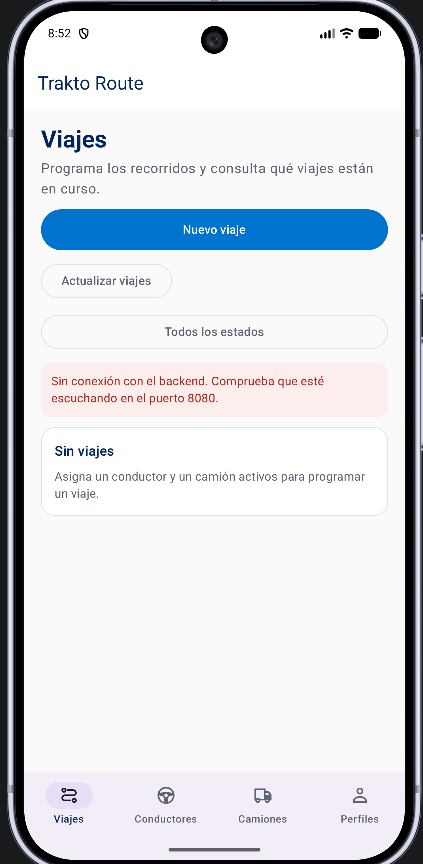
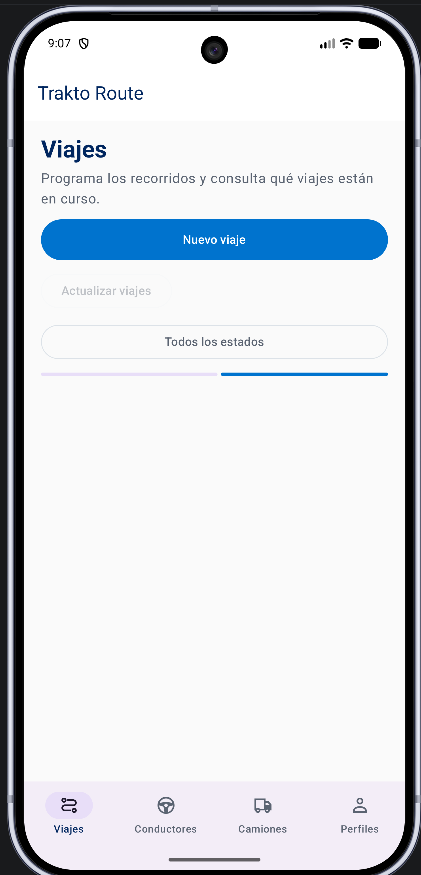
doc: fix Software Deployment Evidence for Sprint Review

diff --git a/README.md b/README.md
@@ -637,7 +637,7 @@ Rodrigo Guerra es un emprendedor que depende de servicios de transporte de merca
 
 | Campo | Detalle |
 |---|---|
-| Nombres y apellidos | Por completar |
+| Nombres y apellidos | Jael Pinta |
 | Segmento objetivo | Organizaciones que coordinan o contratan servicios logísticos |
 | Cargo / actividad | Personal de empresa de mobiliario |
 | Duración | 3:35 |
@@ -901,7 +901,7 @@ Carlos Mendoza supervisará la operación desde la app móvil. El backend aplica
 | Atender incidencias | Consulta el reporte, accede al contacto y solicita replanificación si corresponde. | ¿Qué acción permite continuar de forma adecuada? | Atención enfocada en la situación registrada. |
 | Revisar resultado | Consulta finalización del viaje, entregas e historial. | ¿Qué ocurrió y qué quedó pendiente? | Mejor comprensión del cierre y sus excepciones. |
 
-![To-Be — Carlos Mendoza, pendiente actualizar](assets/images/chapter3/to-be-scenario-map1.png)
+![To-Be — Carlos Mendoza](assets/images/chapter3/to-be-scenario-map1.png)
 
 <div style="page-break-after: always;"></div>
 
@@ -917,7 +917,7 @@ Andrea Salazar coordinará operaciones y relacionará información del envío, p
 | Resolver excepciones | Revisa incidencias, interrupciones y entregas parciales o fallidas. | ¿Qué ocurrió y quién debe actuar? | Menor incertidumbre gracias a los registros. |
 | Cerrar y evaluar | Revisa confirmación de entrega, cobros, historial e indicadores. | ¿Qué operación terminó y qué registros respaldan el resultado? | Comprensión del servicio y de sus pendientes. |
 
-![To-Be — Andrea Salazar, pendiente actualizar](assets/images/chapter3/to-be-scenario-map2.png)
+![To-Be — Andrea Salazar](assets/images/chapter3/to-be-scenario-map2.png)
 
 <div style="page-break-after: always;"></div>
 
@@ -1072,7 +1072,7 @@ El Impact Map relaciona el objetivo de negocio con cambios esperados en las tare
 
 <div style="page-break-after: always;"></div>
 
-![Impact Map — pendiente actualizar con los nuevos contextos](assets/images/chapter3/impact-map.png)
+![Impact Map](assets/images/chapter3/impact-map.png)
 
 <div style="page-break-after: always;"></div>
 
@@ -1184,7 +1184,7 @@ Las historias sugeridas no constituyen compromisos automáticos de capacidad. En
 
 El tablero existente deberá actualizarse con la revisión de historias, sus estimaciones, dependencias y estado real. El enlace proporcionado en el documento base es una invitación; su acceso debe revisarse antes de usarlo como evidencia de consulta del informe.
 
-![Product Backlog — pendiente actualizar](assets/images/chapter3/product-backlog.png)
+![Product Backlog](assets/images/chapter3/product-backlog.png)
 
 [Tablero registrado en el documento base](https://trello.com/invite/b/6a9f35b637f25ac414075cf7/ATTIf84a9d213de599cd378224b9c2fa3fe4F4197A6F/mi-tablero-de-trello)
 
@@ -1288,7 +1288,7 @@ El contexto C4 nivel 1 representa TrackTruck como un solo sistema, sus personas 
 
 <div style="page-break-after: always;"></div>
 
-![C4 Context Diagram — pendiente actualizar](assets/images/chapter4/context-diagram.png)
+![C4 Context Diagram](assets/images/chapter4/context-diagram.png)
 
 <div style="page-break-after: always;"></div>
 
@@ -1327,11 +1327,11 @@ Una interrupción durante IN_PROGRESS se registra como hecho operacional y puede
 
 **Figuras del documento base que deben actualizarse:**
 
-![UML Activity — pendiente actualizar](assets/images/chapter4/activity-diagram.png)
+![UML Activity](assets/images/chapter4/activity-diagram.png)
 
-![UML State — revisar contra las transiciones anteriores](assets/images/chapter4/state-diagram.png)
+![UML State ](assets/images/chapter4/state-diagram.png)
 
-![UML Class — separar modelos de los 17 contextos](assets/images/chapter4/class-diagram.png)
+![UML Class](assets/images/chapter4/class-diagram.png)
 
 <div style="page-break-after: always;"></div>
 
@@ -1381,7 +1381,7 @@ Se propone persistencia relacional con PostgreSQL y EF Core para los servicios t
 
 El diagrama se elaborará por contexto para que puedan identificarse claves locales y referencias externas. Las vistas de la arquitectura objetivo deberán coincidir con las migraciones de los servicios implementados. El diagrama anterior de tres áreas deberá actualizarse para retirar claves foráneas entre servicios y separar Incident Management de Tracking & Geolocation.
 
-![Database Diagram — pendiente actualizar por contexto](assets/images/chapter4/database-diagram.png)
+![Database Diagram ](assets/images/chapter4/database-diagram.png)
 
 <div style="page-break-after: always;"></div>
 
@@ -2770,10 +2770,8 @@ tests/
 La organización se repetirá cuando resulte útil para cada servicio. La app se organizará por funcionalidades, con presentation, domain y data y componentes compartidos de UI. La estructura elegida deberá facilitar entender el caso de uso sin incorporar capas o abstracciones sin función concreta.
 
 
-****Evidencia pendiente:**** rutas reales de clases, commits y captura/diagrama actualizado de los patrones aplicados.
 
-
-![Pattern Based Backend Application — pendiente evidencia de código](assets/images/chapter5/pattern-based-backend-architecture.png)
+![Pattern Based Backend Application ](assets/images/chapter5/pattern-based-backend-architecture.png)
 
 <div style="page-break-after: always;"></div>
 
@@ -2810,7 +2808,6 @@ Se plantean los siguientes refinamientos para mantener la separación de respons
 | Gestionar red y estado fuera de los Composables. | Repository y MVVM. |
 | Evitar efectos duplicados al procesar reintentos y eventos. | Idempotencia y Outbox/Inbox. |
 
-**Evidencia pendiente:** archivos antes y después, historia relacionada, commit o PR y resultados de las pruebas correspondientes.
 
 ![Evidencia de refactorización](assets/images/chapter5/framework-pattern-refactoring.png)
 
@@ -3122,7 +3119,7 @@ Se demostrará el flujo del incremento desde la app móvil hasta el backend C# y
 | Ensayar un rechazo                | Ejemplo de permiso insuficiente, estado inválido o reserva incompatible. |
 
 
-![Execution Evidence — pendiente ejecución real](assets/images/chapter5/sprint1-execution-evidence.png)
+![Execution Evidence ](assets/images/chapter5/sprint1-execution-evidence.png)
 
 <div style="page-break-after: always;"></div>
 
@@ -3170,8 +3167,6 @@ La evidencia disponible comprende los archivos de configuración, las revisiones
 | Capturas, logs y limitaciones observadas | Se incluye la captura del servicio MySQL como evidencia de la estructura disponible. En ella el servicio aparece **pausado por superar límites de uso**, por lo que no acredita disponibilidad continua. En los repositorios consultados no se encontraron ejecuciones de GitHub Actions ni logs publicados que permitan confirmar un despliegue exitoso o una prueba integrada. |
 
 **Evidencia del servicio MySQL**
-
-La captura permite observar las tablas del entorno de base de datos y el estado del servicio en el momento registrado.
 
 ![Evidencia del servicio MySQL y su estado](https://github.com/1ASI0657-2620-15987-G4/tracktruck-report/raw/feature/dazai/assets/images/chapter5/sprint1-deployment-evidence.png)
 
@@ -3536,7 +3531,7 @@ El alcance del incremento comprende las nueve historias asignadas al Sprint 3 en
 | US42 | Consultar historial de una ruta | Operational History | 3 |
 | US37 | Consultar incidencias anteriores | Incident Management | 3 |
 
-**Tablero de planificación** [Sprint Backlog 3 en Trello — enlace pendiente](https://trello.com/invite/b/6af774f6d2e527c0d9046230/ATTI633b804c3c027aa4f924aa72b825176c2D7A4D68/tracktruck-sprint-backlog-3)
+**Tablero de planificación** [Sprint Backlog 3 en Trello](https://trello.com/invite/b/6af774f6d2e527c0d9046230/ATTI633b804c3c027aa4f924aa72b825176c2D7A4D68/tracktruck-sprint-backlog-3)
 
 ![Captura del Sprint Backlog 3 — pendiente de adjuntar](assets/images/chapter5/sprint3-backlog.png)
 
@@ -3565,7 +3560,7 @@ Los cinco registros son ficticios. La rama, los identificadores y las fechas son
 | [tracktruck-mobile](https://github.com/1ASI0657-2620-15987-G4/tracktruck-mobile) | `feature/sprint-3-mobile` | `d2e0b67` | `feat(history): add vehicle, driver and route filters` | Añade el filtrado del historial y las consultas por vehículo, conductor y ruta (US39–US42). | 06/11/2026 |
 | [tracktruck-mobile](https://github.com/1ASI0657-2620-15987-G4/tracktruck-mobile) | `feature/sprint-3-mobile` | `e80f3ac` | `feat(incidents): add incident history screen` | Muestra las incidencias registradas en operaciones anteriores (US37). | 10/11/2026 |
 
-![Evidencia de desarrollo de la aplicación Android — pendiente de adjuntar](assets/images/chapter5/sprint3-development-evidence.png)
+![Evidencia de desarrollo de la aplicación Android ](assets/images/chapter5/sprint3-emulator-driver.png)
 
 
 <div style="page-break-after: always;"></div>
@@ -3645,15 +3640,17 @@ El backend de TrackTruck quedó desplegado y se conectó con la aplicación Andr
 
 #### 5.3.3.7. Team Collaboration Insights During Sprint
 
-La integración del backend y Android se revisó mediante la ejecución de la aplicación en el emulador. Las contribuciones por integrante se completarán con las tarjetas, los commits o el registro de la revisión del Sprint 3.
+Durante el Sprint 3, la mayoría del equipo contribuyó al informe y algunos integrantes también trabajaron en el backend o en la aplicación Android. La integración se revisó ejecutando la app en el emulador con el backend desplegado.
 
-| **Integrante** | **Aporte en el Sprint 3** | **Tarjeta, PR o commit** |
+La distribución de aportes es propuesta y los commits son ficticios. Sustitúyelos por los aportes y las referencias reales antes de entregar el informe.
+
+| **Integrante** | **Aporte en el Sprint 3** | **Commit de ejemplo** |
 | --- | --- | --- |
-| Jean Franck Loa Rojas | Pendiente de registrar. | Pendiente. |
-| Anhelo Rodrigo Rocca Leon | Pendiente de registrar. | Pendiente. |
-| Alexander Piero Fernandez Garfias | Pendiente de registrar. | Pendiente. |
-| Sebastián De Las Casas Latour | Pendiente de registrar. | Pendiente. |
-| Aldair Joaquin Ramos Aguirre | Pendiente de registrar. | Pendiente. |
+| Jean Franck Loa Rojas | Apoyo en el backend y actualización del informe. | `a13c7e2` — `feat(delivery): update delivery handling` |
+| Anhelo Rodrigo Rocca Leon | Apoyo en el backend y documentación de servicios. | `b28d4f1` — `docs(api): document delivery endpoints` |
+| Alexander Piero Fernandez Garfias | Integración de la app Android con el backend y actualización del informe. | `c39e5a4` — `feat(android): integrate sprint 3 features` |
+| Sebastián De Las Casas Latour | Ajustes en la app Android y revisión en el emulador. | `d40f6b3` — `feat(android): update trip history screen` |
+| Aldair Joaquin Ramos Aguirre | Actualización del informe y organización de las evidencias. | `e51a7c6` — `docs(report): add sprint 3 evidence` |
 
 ![Registro de colaboración del Sprint 3](assets/images/chapter5/sprint3-team-collaboration.png)
 
@@ -3670,9 +3667,9 @@ El tablero del Sprint 3 reúne las historias del incremento y las tareas de back
 | En revisión | Tarea lista para revisión o validación. |
 | Terminado | Tarea revisada que cumple la Definition of Done. |
 
-**Tablero Kanban** [TrackTruck — Sprint 3 Kanban en Trello, enlace pendiente](https://trello.com/invite/b/6af77a15d7afe9617c7d9d3d/ATTI569564f56b022772d4b40124857dabb8CA839305/tracktruck-sprint-3-kanban)
+**Tablero Kanban** [TrackTruck — Sprint 3 Kanban en Trello](https://trello.com/invite/b/6af77a15d7afe9617c7d9d3d/ATTI569564f56b022772d4b40124857dabb8CA839305/tracktruck-sprint-3-kanban)
 
-![Tablero Kanban del Sprint 3 — captura pendiente](assets/images/chapter5/sprint3-kanban.png)
+![Tablero Kanban del Sprint 3](assets/images/chapter5/sprint3-kanban.png)
 
 <div style="page-break-after: always;"></div>
 
